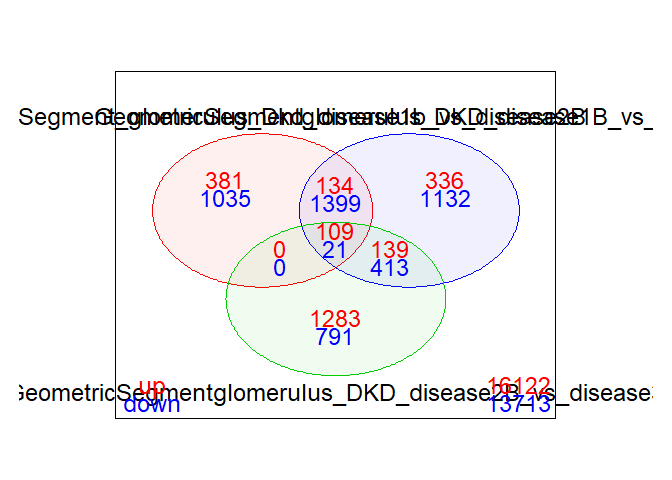
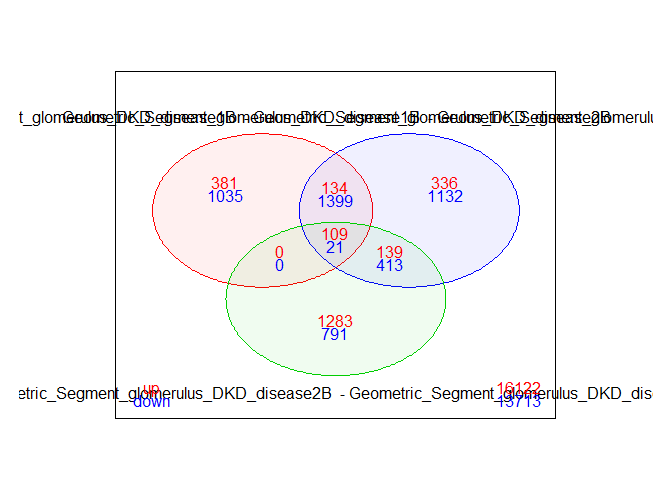
update function name DGEA with DESeq2

diff --git a/README.md b/README.md
@@ -694,10 +694,20 @@ comparisons <- list(
 groupingColumns <- c("segment", "region", "class", "slide_name")
 DGEA_results <- DGEALimma(copy_df_Expr, coldata2, grouping_columns = groupingColumns, comparisons = comparisons)
 
-results_all_DEG <- decideTests(DGEA_results$fit)
-#> Error in decideTests(DGEA_results$fit): could not find function "decideTests"
+results_all_DEG <- limma::decideTests(DGEA_results$fit)
 summary(results_all_DEG)
-#> Error in h(simpleError(msg, call)): error in evaluating the argument 'object' in selecting a method for function 'summary': object 'results_all_DEG' not found
+#>        Geometric_Segment_glomerulus_DKD_disease1B  - Geometric_Segment_glomerulus_DKD_disease2B 
+#> Down                                                                                        2455
+#> NotSig                                                                                     15425
+#> Up                                                                                           624
+#>        Geometric_Segment_glomerulus_DKD_disease1B  - Geometric_Segment_glomerulus_DKD_disease3
+#> Down                                                                                      2965
+#> NotSig                                                                                   14821
+#> Up                                                                                         718
+#>        Geometric_Segment_glomerulus_DKD_disease2B  - Geometric_Segment_glomerulus_DKD_disease3
+#> Down                                                                                      1225
+#> NotSig                                                                                   15748
+#> Up                                                                                        1531
 
 result1 = topTable(fit2, coef= "GeometricSegment_glomerulus_Dkd_disease1b_vs_disease2B", number = Inf, adjust.method = "fdr") %>%
   as.data.frame() # differentially expressed genes are obtained by topTreat() function
@@ -763,10 +773,10 @@ venn.plot <- vennDiagram(results_all_DEG,
               include=c("up", "down"), mar=rep(1,4), cex=c(1,1,0.7), lwd=1,
               counts.col=c("red", "blue"),
               circle.col = c("red", "blue", "green3"))
-#> Error: object 'results_all_DEG' not found
 ```
 
-Chen, H., Boutros, P.C. VennDiagram: a package for the generation of
+<img src="man/figures/README-VennDiagramm-1.png" width="100%" /> Chen,
+H., Boutros, P.C. VennDiagram: a package for the generation of
 highly-customizable Venn and Euler diagrams in R. BMC Bioinformatics 12,
 35 (2011). <https://doi.org/10.1186/1471-2105-12-35>
 
@@ -789,7 +799,7 @@ comparisons <- list(
 )
 int_counts <- round(copy_df_Expr)
 groupingColumns <- c("segment", "region", "class", "slide_name")
-results_DESeq2 <- DGEA_DESeq2(int_counts, coldata2, groupingColumns,comparisons)
+results_DESeq2 <- DGEADESeq2(int_counts, coldata2, groupingColumns,comparisons)
 #> converting counts to integer mode
 #> estimating size factors
 #> estimating dispersions
